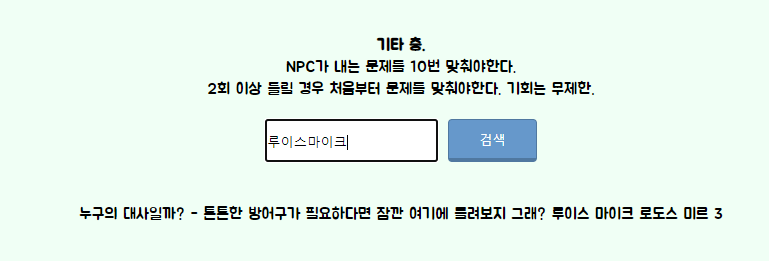
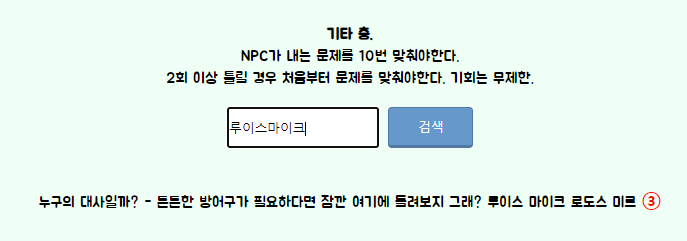
39f 정답 개선, 27f img 추가

Changed region(s): [[0.2445, 0.1162, 0.7948, 0.3776], [0.0306, 0.7842, 0.9782, 0.8714], [0.3057, 0.4357, 0.7031, 0.639]]

diff --git a/main.js b/main.js
@@ -299,7 +299,7 @@ const floor = [
     '<article id="article_1"><h1>★24층 - 배경음악을 듣고 마을 이름 맞추기. </h1><p>*배경음악 동영상이 필요하다. <br><a href="https://www.youtube.com/watch?v=tvBfW1m6DiM" target="blank">배경음악</a> <br>참고하자. <br> <br><strong>기타 층.</strong> <br>배경음악 BGM을 듣고 정답을 맞추면 된다. <br>틀릴 경우 5분씩 차감되니 꼭 한번에 맞추도록 하자. <br> <br><img src="gif/24f.gif" alt="24f"> <br> <br><strong>족보 :</strong> 뾰족귀 여우마을, 백초마을, 헤네시스, 페리온, 커닝시티, 엘리니아, <br>헬리시움 탈환 본부, 크리스탈 가든, 무릉, 리스항구, 리프레, 에레브, 아랫마을, <br>아쿠아리움, 루디브리엄, 리엔, 에우렐, 판테온, 에델슈타인, 아리안트, 마가티아, <br>오르비스, 엘나스, 지구방위본부, 노틸러스, 슬리피우드 <br><strong>헷갈리는 목록 :</strong> <br>무릉 O 무릉도원 X <br>루디브리엄 O 루디브리움 X <br><strong>띄어쓰기</strong>는 안해도 된다. 단,<strong> 아래의 세 가지 맵만 띄어쓰기 존재. </strong><br>뾰족귀 여우마을 O 뾰족귀 여우 마을 X 뾰족귀여우마을 X <br>헬리시움 탈환 본부 O 헬리시움 탈환본부 X 헬리시움탈환본부 X <br>크리스탈 가든 O 크리스탈가든 X <br></p></article>',
     '<article id="article_1"><h1>25층 - 쉼터</h1><p><strong>★27층, ★33층</strong> 공략을 봐두자. <br>35층까지 딱히 어려운 층이 없다. <br> <br><img src="gif/25f.png"alt="25f"></p></article>',
     '<article id="article_1"><h1>26층 - 오렌지 슬라임을 퇴치하여 얻은 오렌지 슬라임의 액체 10개를 제물에 떨궈 더 많은 오렌지 슬라임을 소환해 오렌지 슬라임 300마리 퇴치하기.</h1><p><strong>사냥 층. </strong><br>슬라임을 잡아 액체를 얻어 중앙 제단에 10개씩 떨구면, 슬라임이 20마리씩 나온다. <br>너무 많으면 소환이 안되므로 두번씩 소환을 반복해서 클리어하자. <br>클리어 이후 다음 사람을 생각해서 <strong>두번 소환해두고 가자.</strong> <br> <br><img src="gif/26f.gif" alt="26f"></p></article>',
-    '<article id="article_1"><h1>★27층 - 장애물과 함정을 피해 다음 층의 입구까지 돌파하기.</h1><p><strong>점프 층.</strong> <br>동영상을 한번 본 후 설명을 보는게 이해하기 더 쉽다. 동영상 시청 바람. <br><a href="https://www.youtube.com/watch?v=zFeqYiaEi_Q&feature=emb_logo" target="blank">27층 무편집 동영상</a><br> <br><p style="color: red; display: inline;">함정 구역</p>은 운빨로 찍는구간이다. 3구역 존재한다. <br>4개의 초록상자 중 정답인 곳을 찾을때 까지 다시 가면 된다. <br>함정에 걸릴 경우 맵에 표창이 생성된다. 아프기도 하고 펫자동물약이 금지인 맵이니 직접 물약을 먹어주자. <br> <br><p style="color: orange; display: inline;">포탈 이동</p>은 움짤을 확인하자. <br> <br><img src="gif/27_0f.jpg" alt="27f" width="700px"> <br> <br><p style="color: orange; display: inline;">1번포탈</p> <strong>함정구역 통과 후 아래처럼 이동하여 포탈을 타자.</strong> <br> <br><img src="gif/27_1f.gif" alt="27f"> <br> <br><p style="color: orange; display: inline;">2번포탈</p> <br> <br><img src="gif/27_2f.gif" alt="27f"> <br> <br><strong>2번포탈 이후 8연속 점프는 점프꾹으로 되는 캐릭도 있고, 안되는 캐릭도 있다. <br>점프꾹이 가능하면 점프꾹하자. <br> <br></strong><p style="display: inline; color: orange;">3번포탈</p> <br> <br><img src="" alt="27f"></p></article>',
+    '<article id="article_1"><h1>★27층 - 장애물과 함정을 피해 다음 층의 입구까지 돌파하기.</h1><p><strong>점프 층.</strong> <br>동영상을 한번 본 후 설명을 보는게 이해하기 더 쉽다. 동영상 시청 바람. <br><a href="https://www.youtube.com/watch?v=zFeqYiaEi_Q&feature=emb_logo" target="blank">27층 무편집 동영상</a><br> <br><p style="color: red; display: inline;">함정 구역</p>은 운빨로 찍는구간이다. 3구역 존재한다. <br>4개의 초록상자 중 정답인 곳을 찾을때 까지 다시 가면 된다. <br>함정에 걸릴 경우 맵에 표창이 생성된다. 아프기도 하고 펫자동물약이 금지인 맵이니 직접 물약을 먹어주자. <br> <br><p style="color: orange; display: inline;">포탈 이동</p>은 움짤을 확인하자. <br> <br><img src="gif/27_0f.jpg" alt="27f" width="700px"> <br> <br><p style="color: orange; display: inline;">1번포탈</p> <strong>함정구역 통과 후 아래처럼 이동하여 포탈을 타자.</strong> <br> <br><img src="gif/27_1f.gif" alt="27f"> <br> <br><p style="color: orange; display: inline;">2번포탈</p> <br> <br><img src="gif/27_2f.gif" alt="27f"> <br> <br><strong>2번포탈 이후 8연속 점프는 점프꾹으로 되는 캐릭도 있고, 안되는 캐릭도 있다. <br>점프꾹이 가능하면 점프꾹하자. <br> <br></strong><p style="display: inline; color: orange;">3번포탈</p> <br> <br><img src="gif/27_3f.gif" alt="27f"></p></article>',
     '<article id="article_1"><h1>28층 - 도마뱀 굴을 일반 공격으로 공격해 벨라모아와 프릴드를 불러내고 각각 20마리 퇴치하기.</h1><p><strong>사냥 층.</strong> <br>중앙 상단에있는 <strong>도마뱀 굴을 일반공격하면 몹이 나온다.</strong> 나온 몹을 처치하면 된다. <br>몹은 랜덤으로 소환되니 나올때까지 반복하자. <br>발판마다 도마뱀 굴과 이어진 포탈이 있으니 활용하면 좋다. <br>만약 20마리 이상 잡은 몬스터가 또 나왓다면, 굳이 가서 잡지 말고 굴에 가만히 있자. 굴의 다음 공격타이밍 때 몹은 사라진다. <br> <br><img src="gif/28f.gif" alt="28f"></p></article>',
     '<article id="article_1"><h1>29층 - 모래 난쟁이들에게 모래 가루 10개를 빼앗아 모래 왼쪽 나무에 떨어트려 모래 결정을 얻은 뒤 <br> 올바른 수만큼의 모래 결정을 오른쪽 나무에 떨궈 모래 바람에 가린 노을을되찾기 </h1><strong>사냥(템 모으기) 층.</strong> <br>몹잡아서 나온 <strong>잡템을 모으면 좌측 상단에 모래결정이 생성된다.</strong> (잡템 10개당 모래결정 1개) <br><strong>모래결정을 주워서 그림처럼 나무 밑 (빨간박스)에 떨구자. </strong><br> <br><img src="gif/29f.png" alt="29f"> <br> <br><img src="gif/29_1f.gif" alt="29f"> <br> <br><strong>알맞은 개수는 1~7. 답을 초과해도 괜찮다.</strong> <br>예) 답이 3개면 모래결정 5개를 떨궈도 통과된다. <br>예) 답이 3개면 3개를 한번에 떨궈야 한다. 1개/2개, 1개/1개/1개로 떨구면 인식을 하지 못한다. <br></article>',
     '<article id="article_1"><h1>30층 - 보스: 겁에 질린 사자 퇴치하기</h1><p><strong>보스 층.</strong> <br> 체력 63억. <br>놔두면 계속 숨어버리니 빠르게 처치하자. <br>딜이 충분하다면 움짤처럼 떨어지면서 상자에 말걸기 -> 소환 -> 원킬컷이 가능하다. <br> <br><img src="gif/30f.gif" alt="30f"></p></article>',
@@ -372,7 +372,6 @@ function answer(){
                 continue;
             }
             else if(str.slice(j, inputstr.length + j) === inputstr){
-                answer = str[str.length - 1];
                 output[count] = strtmp;
                 count++;
             }
@@ -380,7 +379,16 @@ function answer(){
     }
     if(count >= 1){
         for(let i = 0; i < output.length; i++){
-            document.getElementById("outputData").innerHTML += output[i]+"<br>";
+            for(let j = 0; j < output[i].length; j++){
+                if(j == output[i].length - 1){
+                    answer += "<strong style='font-size: 1.3em; color : red;'>"+output[i][j]+"</strong>";
+                }
+                else{
+                    answer += output[i][j];
+                }
+            }
+            document.getElementById("outputData").innerHTML += answer+"<br>";
+            answer = ""
             document.getElementById("data").autofocus = true;
         }
     }
